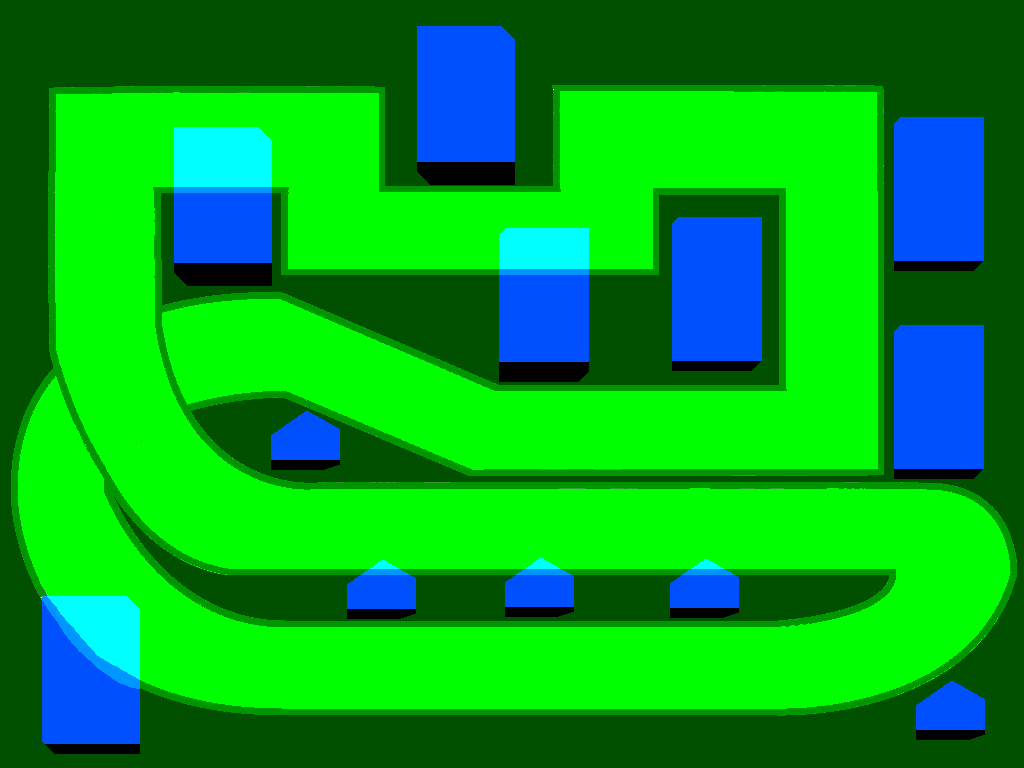
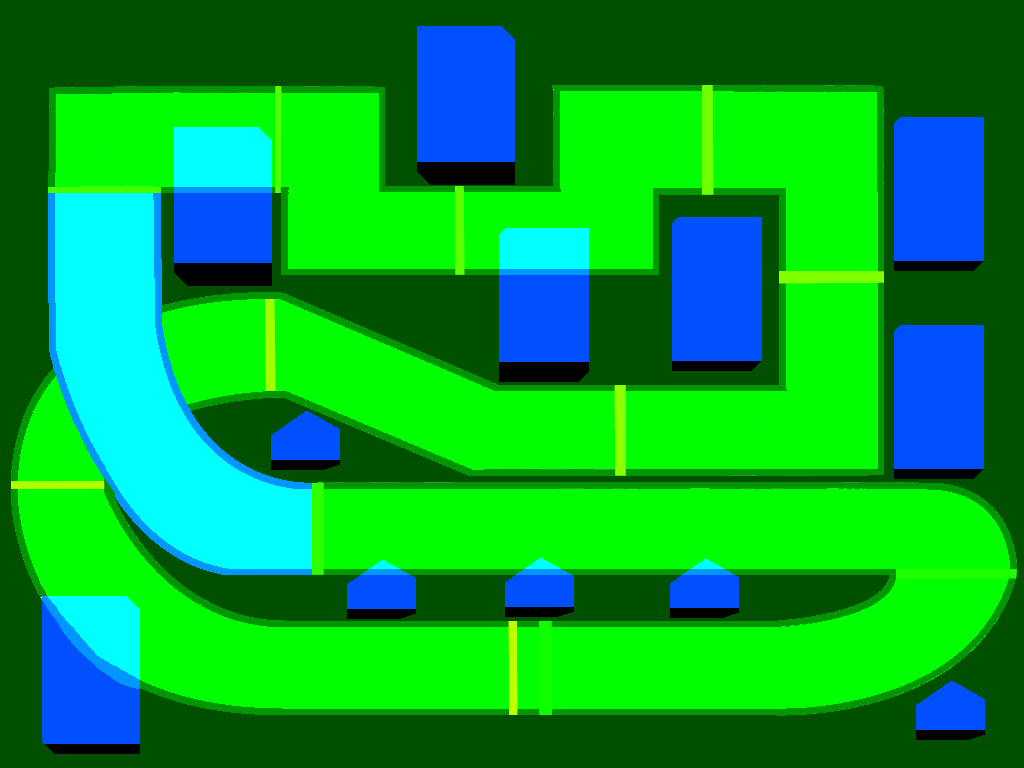
Fixed minor problems with city track and code involving it

diff --git a/modules/game.py b/modules/game.py
@@ -305,63 +305,63 @@ class Game:
 
         # Manage Collisions
         for play in self.listPlayer:
-         for play2 in self.listPlayer:
-           if play == play2:
+          for play2 in self.listPlayer:
+            if play == play2:
              continue
            # Prevent collisions between cars on different bridge levels in desert tracks
-           if currentTrack.name.startswith("desert"):
+            if currentTrack.name.startswith("desert"):
              # Only allow collision if both are on the bridge (80) or both are not
-             if (play.lastCheckpoint == 80) != (play2.lastCheckpoint == 80):
+              if (play.lastCheckpoint == 80) != (play2.lastCheckpoint == 80):
                continue
             if currentTrack.name.startswith("city"):
-              if (play.lastCheckpoint == 32) != (play2.lastCheckpoint == 32):
+              if (play.lastCheckpoint == 48) != (play2.lastCheckpoint == 48):
                 continue
-           playCollisionRects = []
-           play2CollisionRects = []
-           listIndex = pygame.Rect(play.car.listCarRect[0]).collidelistall(play2.car.listCarRect)
-           if listIndex != []:
-             playCollisionRects.append(0)
-             for idx in listIndex:
-               if idx not in play2CollisionRects:
-                 play2CollisionRects.append(idx)
-           listIndex = pygame.Rect(play.car.listCarRect[1]).collidelistall(play2.car.listCarRect)
-           if listIndex != []:
-             playCollisionRects.append(1)
-             for idx in listIndex:
-               if idx not in play2CollisionRects:
-                 play2CollisionRects.append(idx)
-           listIndex = pygame.Rect(play.car.listCarRect[2]).collidelistall(play2.car.listCarRect)
-           if listIndex != []:
-             playCollisionRects.append(2)
-             for idx in listIndex:
-               if idx not in play2CollisionRects:
-                 play2CollisionRects.append(idx)
-           listIndex = pygame.Rect(play.car.listCarRect[3]).collidelistall(play2.car.listCarRect)
-           if listIndex != []:
-             playCollisionRects.append(3)
-             for idx in listIndex:
-               if idx not in play2CollisionRects:
-                 play2CollisionRects.append(idx)
+            playCollisionRects = []
+            play2CollisionRects = []
+            listIndex = pygame.Rect(play.car.listCarRect[0]).collidelistall(play2.car.listCarRect)
+            if listIndex != []:
+              playCollisionRects.append(0)
+              for idx in listIndex:
+                if idx not in play2CollisionRects:
+                  play2CollisionRects.append(idx)
+            listIndex = pygame.Rect(play.car.listCarRect[1]).collidelistall(play2.car.listCarRect)
+            if listIndex != []:
+              playCollisionRects.append(1)
+              for idx in listIndex:
+                if idx not in play2CollisionRects:
+                  play2CollisionRects.append(idx)
+            listIndex = pygame.Rect(play.car.listCarRect[2]).collidelistall(play2.car.listCarRect)
+            if listIndex != []:
+              playCollisionRects.append(2)
+              for idx in listIndex:
+                if idx not in play2CollisionRects:
+                  play2CollisionRects.append(idx)
+            listIndex = pygame.Rect(play.car.listCarRect[3]).collidelistall(play2.car.listCarRect)
+            if listIndex != []:
+              playCollisionRects.append(3)
+              for idx in listIndex:
+                if idx not in play2CollisionRects:
+                  play2CollisionRects.append(idx)
 
-           playCollisionRects.sort()
-           play2CollisionRects.sort()
-           #if playCollisionRects != []:
-             #print playCollisionRects
-           if playCollisionRects == [0]:
-             play.car.newSpeed = play.car.speed/2 - abs(play2.car.speed/2)
-           elif playCollisionRects == [1]:
-             play.car.newSpeed = play.car.speed/2 + abs(play2.car.speed/2)
-           elif playCollisionRects == [2] or playCollisionRects == [0,1,2] or playCollisionRects == [0,2] or playCollisionRects == [1,2]:
-             play.car.speedL = play.car.speedL + abs(play2.car.speed/2)*10
-             play.car.newSpeed = 0
-           elif playCollisionRects == [3] or playCollisionRects == [0,1,3] or playCollisionRects == [0,3] or playCollisionRects == [1,3]:
-             play.car.speedL = play.car.speedL - abs(play2.car.speed/2)*10
-             play.car.newSpeed = 0
-           elif playCollisionRects != [] :
-             #TODO
-             #print "Strange Collision !!!"
-             #print playCollisionRects
-             play.car.newSpeed = 0
+            playCollisionRects.sort()
+            play2CollisionRects.sort()
+            #if playCollisionRects != []:
+              #print playCollisionRects
+            if playCollisionRects == [0]:
+              play.car.newSpeed = play.car.speed/2 - abs(play2.car.speed/2)
+            elif playCollisionRects == [1]:
+              play.car.newSpeed = play.car.speed/2 + abs(play2.car.speed/2)
+            elif playCollisionRects == [2] or playCollisionRects == [0,1,2] or playCollisionRects == [0,2] or playCollisionRects == [1,2]:
+              play.car.speedL = play.car.speedL + abs(play2.car.speed/2)*10
+              play.car.newSpeed = 0
+            elif playCollisionRects == [3] or playCollisionRects == [0,1,3] or playCollisionRects == [0,3] or playCollisionRects == [1,3]:
+              play.car.speedL = play.car.speedL - abs(play2.car.speed/2)*10
+              play.car.newSpeed = 0
+            elif playCollisionRects != [] :
+              #TODO
+              #print "Strange Collision !!!"
+              #print playCollisionRects
+              play.car.newSpeed = 0
         
         for play in self.listPlayer:
           #print play.name
@@ -388,22 +388,7 @@ class Game:
 
           # If there's something on the car (the car is in a tunnel), manage mask to hide the car
           # Specific code for desertf in which the car will be shown above overpass at checkpoint 5 (red=80), reverts when reaching checkpoint 6 (red=96)
-          if currentTrack.name.startswith("desert") and play.lastCheckpoint == 80:
-            pass
-          else:
-            part=pygame.Surface((play.car.sizeRect,play.car.sizeRect), HWSURFACE, 24).convert()
-            part.blit(currentTrack.trackF, (0,0), (play.car.x-play.car.sizeRect/2, play.car.y-play.car.sizeRect/2, play.car.sizeRect, play.car.sizeRect))
-            partArray = pygame.surfarray.array2d(part)
-            aX = 0
-            for arrayX in partArray:
-              aY = 0
-              for col in arrayX:
-                if col % 256 != 0:
-                  play.car.image.set_at((aX, aY), (255, 255, 255, 0))
-                aY = aY + 1
-              aX = aX + 1
-
-          if currentTrack.name.startswith("city") and play.lastCheckpoint == 32:
+          if (currentTrack.name.startswith("desert") and play.lastCheckpoint == 80) or (currentTrack.name.startswith("city") and play.lastCheckpoint == 48):
             pass
           else:
             part=pygame.Surface((play.car.sizeRect,play.car.sizeRect), HWSURFACE, 24).convert()
